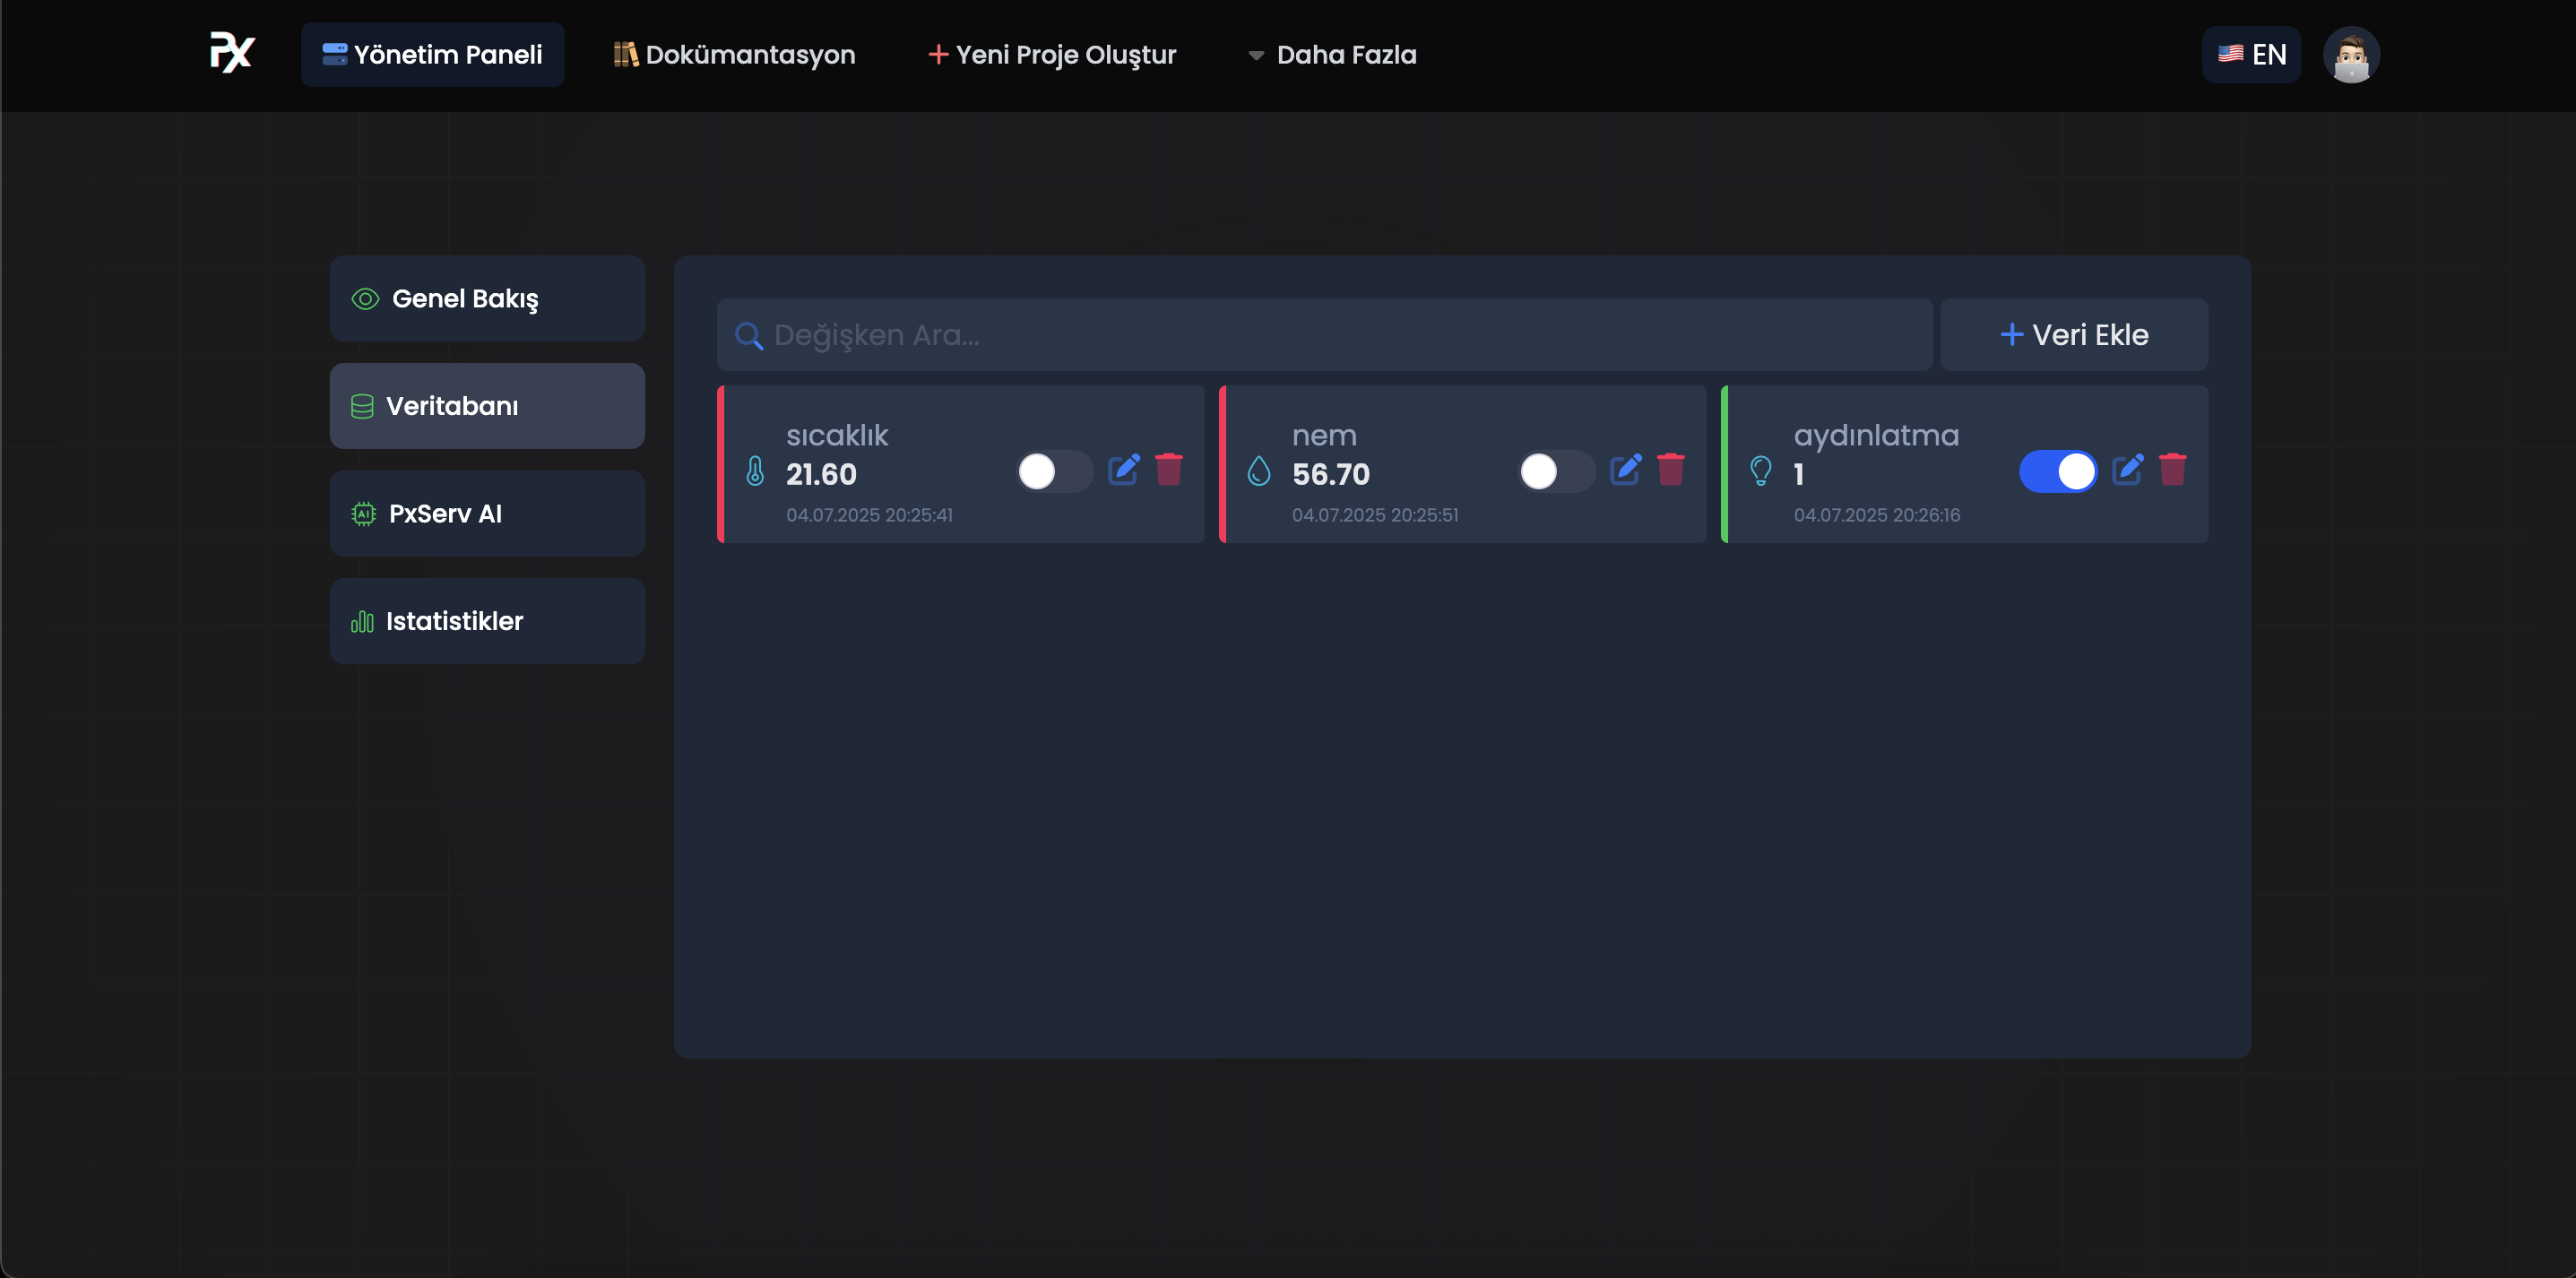
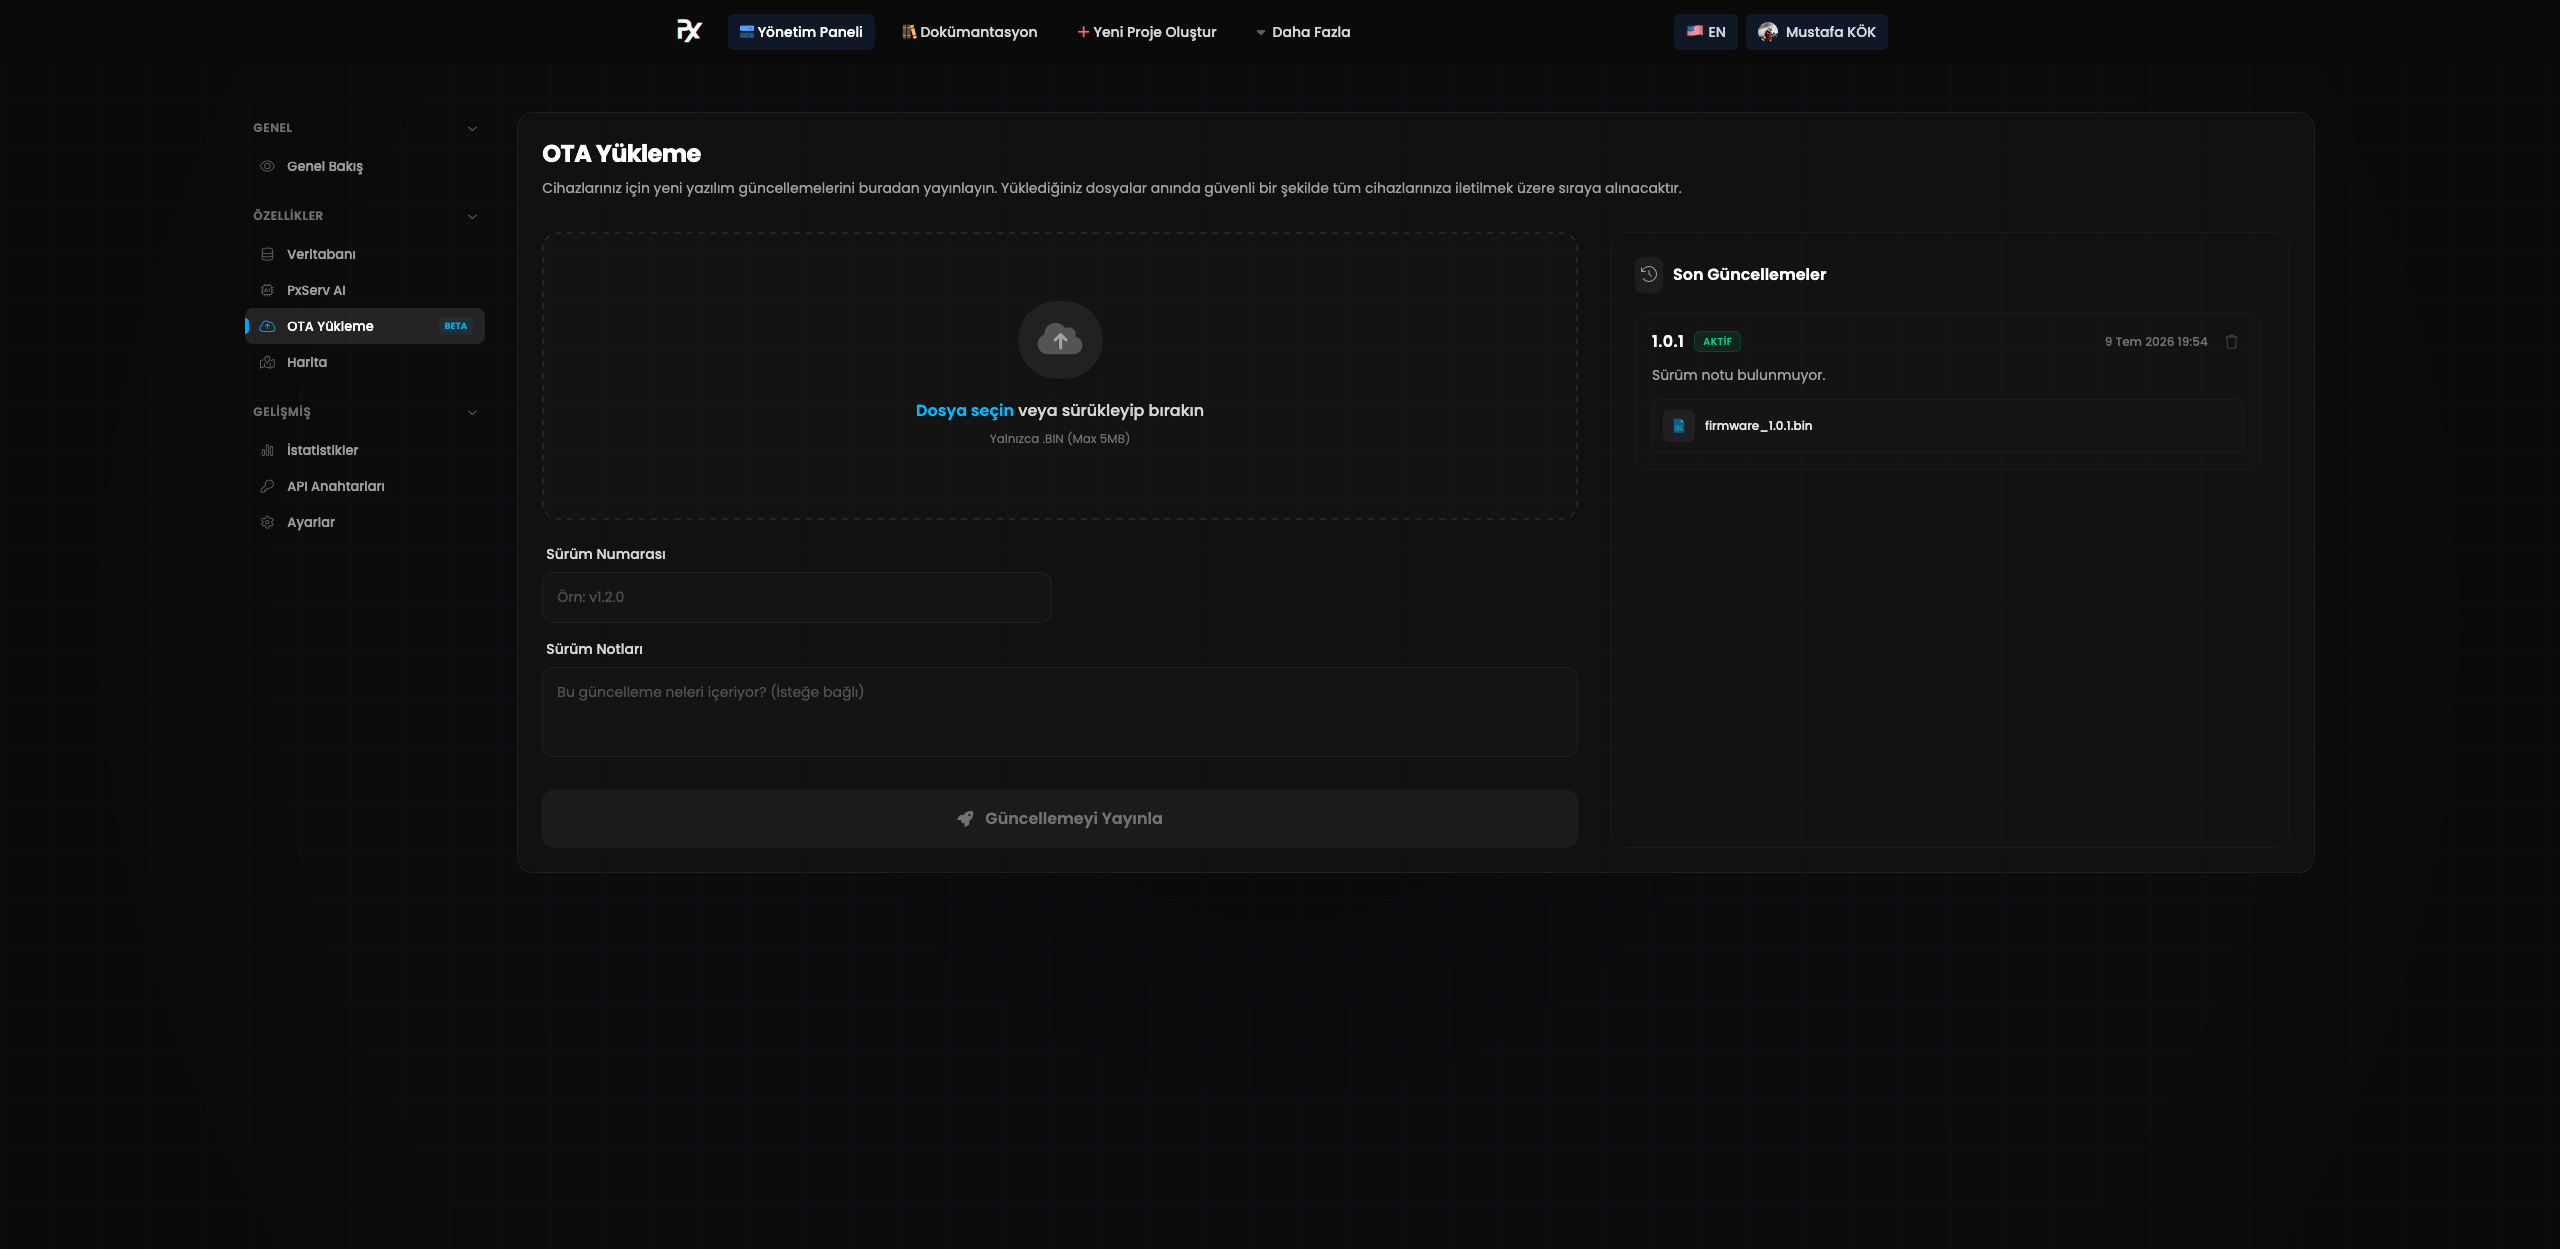
GITBOOK-61: No subject

diff --git a/tr/ota-ozelligi.md b/tr/ota-ozelligi.md
@@ -7,12 +7,14 @@ icon: cloud-arrow-up
 
 OTA (Over The Air), ESP32 ve ESP8266 tabanlı cihazlara yeni firmware'i USB kablosu takmadan, Wi-Fi üzerinden uzaktan yüklemenizi sağlar. PxServ OTA özelliği, PxServ Arduino kütüphanesi ile çalışan cihazların sürüm bilgisini takip etmeye, uygun güncellemeyi kontrol etmeye ve yeni kodu sahadaki cihaza güvenli şekilde aktarmaya odaklanır.
 
-- Amaç: ESP32 ve ESP8266 cihazlarına uzaktan kod güncellemesi göndermek.
-- Kullanıldığı yer: PxServ panelindeki OTA / cihaz güncelleme akışı ve PxServ Arduino kütüphanesi.
-- Desteklenen kartlar: ESP32 ve ESP8266 ailesindeki Wi-Fi destekli kartlar.
-- İlk kurulum şartı: Cihazlara OTA destekli ilk firmware bir kez USB/seri port üzerinden yüklenmelidir.
+* Amaç: ESP32 ve ESP8266 cihazlarına uzaktan kod güncellemesi göndermek.
+* Kullanıldığı yer: PxServ panelindeki OTA / cihaz güncelleme akışı ve PxServ Arduino kütüphanesi.
+* Desteklenen kartlar: ESP32 ve ESP8266 ailesindeki Wi-Fi destekli kartlar.
+* İlk kurulum şartı: Cihazlara OTA destekli ilk firmware bir kez USB/seri port üzerinden yüklenmelidir.
 
-> **ESP8266 uyarısı:** ESP8266 cihazlarda OTA desteği, çipin donanımsal kısıtlamaları nedeniyle ESP32 kadar sağlıklı ve konforlu olmayabilir. En iyi OTA deneyimi için yeterli flash alanına ve RAM kapasitesine sahip kartlar tercih edilmelidir. Firmware boyutu büyüdükçe ESP8266 tarafında güncelleme kararlılığı düşebilir.
+{% hint style="info" %}
+**ESP8266 uyarısı:** ESP8266 cihazlarda OTA desteği, çipin donanımsal kısıtlamaları nedeniyle ESP32 kadar sağlıklı ve konforlu olmayabilir. En iyi OTA deneyimi için yeterli flash alanına ve RAM kapasitesine sahip kartlar tercih edilmelidir. Firmware boyutu büyüdükçe ESP8266 tarafında güncelleme kararlılığı düşebilir.
+{% endhint %}
 
 ## Ne zaman kullanılır?
 
@@ -20,17 +22,17 @@ OTA özellikle sahada çalışan, kutu içine yerleştirilmiş veya erişilmesi 
 
 OTA şu durumlarda idealdir:
 
-- Cihaz fiziksel olarak kolay erişilebilir değildir.
-- Birden fazla ESP32 veya ESP8266 aynı projeye bağlıdır.
-- Firmware'de hata düzeltmesi, yeni özellik veya konfigürasyon değişikliği dağıtmak istersiniz.
-- Cihazların hangi sürümde çalıştığını merkezi olarak görmek istersiniz.
+* Cihaz fiziksel olarak kolay erişilebilir değildir.
+* Birden fazla ESP32 veya ESP8266 aynı projeye bağlıdır.
+* Firmware'de hata düzeltmesi, yeni özellik veya konfigürasyon değişikliği dağıtmak istersiniz.
+* Cihazların hangi sürümde çalıştığını merkezi olarak görmek istersiniz.
 
 OTA şu durumlarda dikkatli kullanılmalıdır:
 
-- Cihaz pil ile çalışıyor ve güncelleme sırasında kapanma riski varsa.
-- Wi-Fi bağlantısı sık sık kopuyorsa.
-- Firmware boyutu cihazın boş flash alanına çok yaklaşıyorsa.
-- Cihaz kritik bir sistemi kontrol ediyorsa ve bakım penceresi planlanmamışsa.
+* Cihaz pil ile çalışıyor ve güncelleme sırasında kapanma riski varsa.
+* Wi-Fi bağlantısı sık sık kopuyorsa.
+* Firmware boyutu cihazın boş flash alanına çok yaklaşıyorsa.
+* Cihaz kritik bir sistemi kontrol ediyorsa ve bakım penceresi planlanmamışsa.
 
 ## OTA akışı nasıl çalışır?
 
@@ -45,13 +47,7 @@ PxServ ile OTA akışı basitçe şu adımlardan oluşur:
 
 ## Arayüz görselleri
 
-<figure>
-  <img
-    src="https://i.imgur.com/1V6S58X.png"
-    alt="PxServ OTA paneli genel görünüm"
-  />
-  <figcaption><p>PxServ OTA paneli genel görünüm</p></figcaption>
-</figure>
+<figure><img src="../.gitbook/assets/resim (2).png" alt="PxServ OTA paneli genel görünüm"><figcaption></figcaption></figure>
 
 ## Temel kavramlar
 
@@ -65,13 +61,13 @@ PxServ ile OTA akışı basitçe şu adımlardan oluşur:
 
 OTA kullanmadan önce şunların hazır olduğundan emin olun:
 
-- PxServ proje API anahtarı
-- Arduino IDE veya PlatformIO
-- ESP32 ya da ESP8266 kart desteği
-- `PxServ.h` Arduino kütüphanesi
-- Kararlı Wi-Fi bağlantısı
-- OTA destekli ilk firmware'in cihaza seri port üzerinden yüklenmiş olması
-- Firmware için yeterli flash alanı
+* PxServ proje API anahtarı
+* Arduino IDE veya PlatformIO
+* ESP32 ya da ESP8266 kart desteği
+* `PxServ.h` Arduino kütüphanesi
+* Kararlı Wi-Fi bağlantısı
+* OTA destekli ilk firmware'in cihaza seri port üzerinden yüklenmiş olması
+* Firmware için yeterli flash alanı
 
 ESP32 için Arduino IDE'de genellikle OTA destekleyen bir partition şeması seçilmelidir. Firmware boyutu büyüdükçe OTA için ayrılan alan yetersiz kalabilir. ESP8266 tarafında da flash boyutu ve OTA alanı seçimi önemlidir; büyük firmware'lerde `Flash Size` ayarını kontrol edin.
 
@@ -107,41 +103,19 @@ Bu örnekte cihaz, mevcut firmware sürümünü `firmwareVersion` anahtarıyla P
 
 OTA ile yüklenen dosya, kaynak kod dosyası değil derlenmiş firmware dosyasıdır.
 
-> **Çok önemli:** OTA ile yükleyeceğiniz yeni firmware kodunun içinde de PxServ OTA kodları yer almalıdır. Yani yeni sürümde de `setDeviceFirmwareVersion()` ve `checkOtaFirmware()` akışı korunmalıdır. OTA kodunu yeni firmware'den çıkarırsanız cihaz o sürüme geçebilir, ancak sonraki güncellemeleri artık uzaktan alamaz; tekrar USB/seri port üzerinden müdahale etmeniz gerekir.
+{% hint style="info" %}
+**Çok önemli:** OTA ile yükleyeceğiniz yeni firmware kodunun içinde de PxServ OTA kodları yer almalıdır. Yani yeni sürümde de `setDeviceFirmwareVersion()` ve `checkOtaFirmware()` akışı korunmalıdır. OTA kodunu yeni firmware'den çıkarırsanız cihaz o sürüme geçebilir, ancak sonraki güncellemeleri artık uzaktan alamaz; tekrar USB/seri port üzerinden müdahale etmeniz gerekir.
+{% endhint %}
 
 Arduino IDE kullanıyorsanız PxServ paneline yükleyeceğiniz dosyayı **Sketch -> Export Compiled Binary** (**Eskiz -> Derlenmiş Dosyayı Dışa Aktar**) seçeneğiyle oluşturabilirsiniz. Bu işlem, açık olan Arduino projesini derler ve OTA için kullanılabilecek `.bin` dosyasını proje klasörüne çıkarır.
 
 ### Arduino IDE ile `.bin` firmware oluşturma
 
-**Görsel alanı: Export Compiled Binary menüsü**
+<figure><img src="../.gitbook/assets/Adsız tasarım (1).png" alt="Arduino IDE Export Compiled Binary menüsü"><figcaption></figcaption></figure>
 
-Buraya Arduino IDE üst menüsünde `Sketch > Export Compiled Binary` seçeneğinin göründüğü ekran görüntüsü eklenebilir. Bu görsel, kullanıcıların `.bin` dosyasını nereden üreteceğini hızlıca anlamasını sağlar.
+<figure><img src="../.gitbook/assets/Adsız tasarım(1).png" alt="Arduino IDE Export Compiled Binary menüsü"><figcaption></figcaption></figure>
 
-```html
-<figure>
-  <img
-    src="../.gitbook/assets/ota-export-compiled-binary-tr.png"
-    alt="Arduino IDE Export Compiled Binary menüsü"
-  />
-  <figcaption><p>Arduino IDE Export Compiled Binary menüsü</p></figcaption>
-</figure>
-```
-
-**Görsel alanı: Oluşan `.bin` dosyası**
-
-Buraya derleme sonrasında sketch klasöründe oluşan `.bin` firmware dosyasını gösteren dosya yöneticisi veya Arduino IDE çıktı ekranı eklenebilir.
-
-```html
-<figure>
-  <img
-    src="../.gitbook/assets/ota-compiled-binary-dosyasi-tr.png"
-    alt="Arduino IDE ile oluşturulan bin firmware dosyası"
-  />
-  <figcaption>
-    <p>Arduino IDE ile oluşturulan .bin firmware dosyası</p>
-  </figcaption>
-</figure>
-```
+<figure><img src="../.gitbook/assets/resim (4).png" alt="Arduino IDE ile oluşturulan .bin firmware dosyası"><figcaption></figcaption></figure>
 
 ### Doğru `.bin` dosyasını seçme
 
@@ -149,11 +123,13 @@ Arduino IDE, kart tipine ve ayarlara göre birden fazla çıktı dosyası oluşt
 
 Örnek dosya adları:
 
-- `sera-nem-esp32.ino.bin`
-- `depo-kapi-esp8266.ino.bin`
-- `akilli-role.ino.bin`
+* `sera-nem.ino.bin`
+* `proje-adi.ino.bin`
+* `akilli-role.ino.bin`
 
-ESP32 tarafında bootloader veya partition ile ilgili ek `.bin` dosyaları da görebilirsiniz. OTA güncellemesi için genellikle uygulama firmware'i gerekir; bootloader veya partition dosyalarını OTA firmware dosyası olarak yüklemeyin.
+{% hint style="info" %}
+ESP32 tarafında bootloader veya partition ile ilgili ek `.bin` dosyaları da görebilirsiniz. OTA güncellemesi için genellikle sadece proje-adi.ino.bin formatında olan `.bin` dosyası gereklidir
+{% endhint %}
 
 ## Bağlantı ve güç kararlılığı
 
@@ -163,27 +139,28 @@ OTA sırasında cihazın kapanması veya Wi-Fi bağlantısının kopması günce
 
 **Cihaz güncellemeyi görmüyor**
 
-- Cihaz internete bağlı mı kontrol edin.
-- API anahtarının doğru projeye ait olduğundan emin olun.
-- `checkOtaFirmware()` fonksiyonu `loop()` içinde düzenli çağrılıyor mu bakın.
-- Firmware sürümü panelde aktif sürüm olarak işaretlenmiş mi bakın.
+* Cihaz internete bağlı mı kontrol edin.
+* API anahtarının doğru projeye ait olduğundan emin olun.
+* `checkOtaFirmware()` fonksiyonu `loop()` içinde düzenli çağrılıyor mu bakın.
+* Firmware sürümü panelde aktif sürüm olarak işaretlenmiş mi bakın.
 
 **Güncelleme başlıyor ama tamamlanmıyor**
 
-- Wi-Fi sinyal kalitesini kontrol edin.
-- Güç kaynağının yeterli olduğundan emin olun.
-- Firmware dosya boyutunun OTA alanına sığıp sığmadığını kontrol edin.
-- ESP8266 kullanıyorsanız flash boyutu, boş RAM ve firmware boyutunu tekrar gözden geçirin.
+* Wi-Fi sinyal kalitesini kontrol edin.
+* Güç kaynağının yeterli olduğundan emin olun.
+* Firmware dosya boyutunun OTA alanına sığıp sığmadığını kontrol edin.
+* ESP8266 kullanıyorsanız flash boyutu, boş RAM ve firmware boyutunu tekrar gözden geçirin.
 
 **Cihaz güncellemeden sonra açılmıyor**
 
-- Seri monitör ile boot loglarını okuyun.
-- Yanlış board için derlenmiş firmware yüklenmiş olabilir.
-- Kod, açılışta bloklanan bir Wi-Fi veya sensör bekleme döngüsüne girmiş olabilir.
-- Gerekirse cihazı USB/seri port üzerinden son kararlı firmware ile yeniden yükleyin.
+* Seri monitör ile boot loglarını okuyun.
+* Yanlış board için derlenmiş firmware yüklenmiş olabilir.
+* Kod, açılışta bloklanan bir Wi-Fi veya sensör bekleme döngüsüne girmiş olabilir.
+* Gerekirse cihazı USB/seri port üzerinden son kararlı firmware ile yeniden yükleyin.
 
 ## Kısa özet
 
 PxServ OTA, ESP32 ve ESP8266 projelerinde sahadaki cihazları yönetilebilir hale getirir. İlk OTA destekli firmware seri porttan yüklendikten sonra, sonraki güncellemeler PxServ üzerinden uzaktan dağıtılabilir. Sağlam yeterli flash alanı ve kontrollü dağıtım süreci OTA'nın güvenilir çalışması için en önemli parçalardır.
 
 Detaylı Arduino kullanımı için bkz: [Arduino Kütüphanesi](arduino-kutuphanesi.md)
+